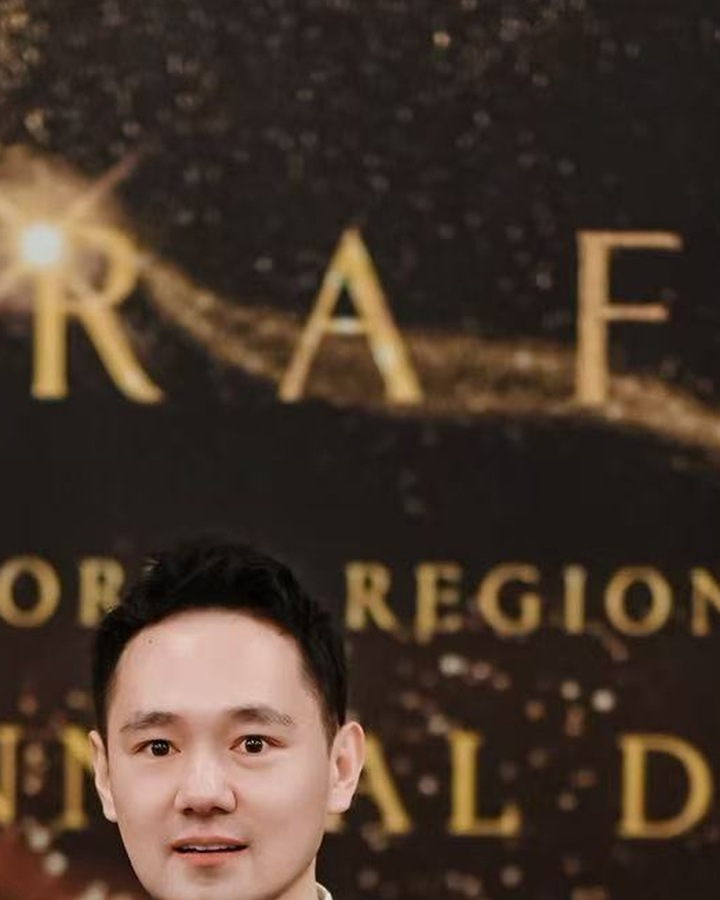
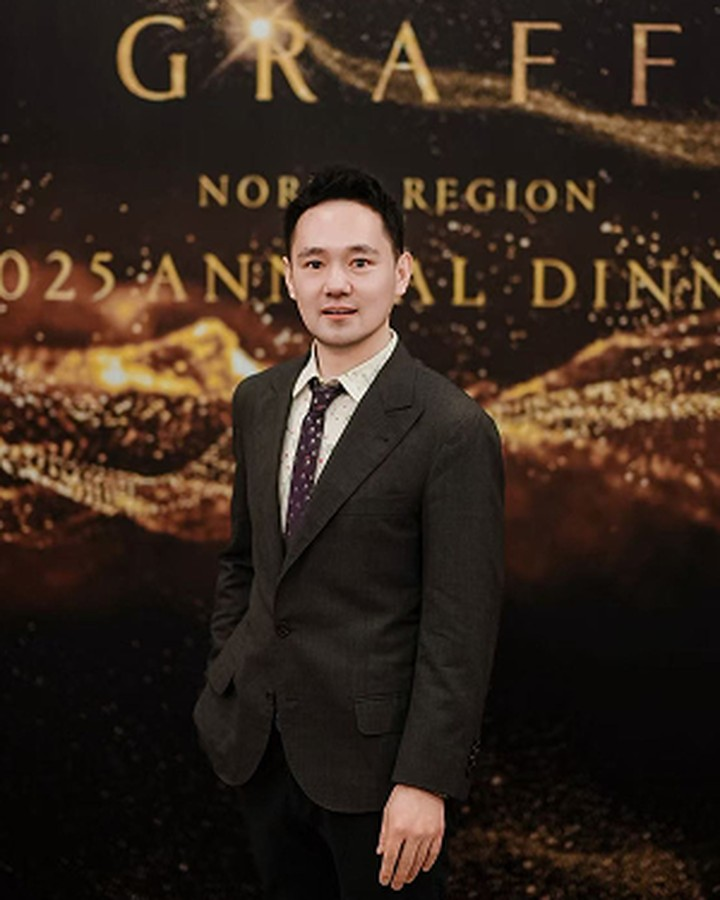
Update CEO/CGO team photos for 北回归线路演

diff --git a/index.html b/index.html
@@ -890,11 +890,7 @@
       .wordmark { font-size: clamp(3.2rem, 8vw, 5.5rem); }
     }
   </style>
-<meta property="og:title" content="北回归线 SageMeet 智遇" />
-<meta property="og:description" content="一个基于真实人生经历与AI深度倾诉的社交匹配平台，旨在帮助城市单身青年通过价值观与情感线索遇见同频的伙伴。" />
-<meta property="og:url" content="https://arctic-comet-5xxj.here.now/index.html" />
-<meta property="og:type" content="website" />
-<meta name="twitter:card" content="summary" /></head>
+</head>
 <body>
   <!--
     THESIS: Warm paper pitch manuscript — team wordmark 北回归线 as the hero memory; refuses neon-startup metric heroes and same-size icon card scaffolds.
